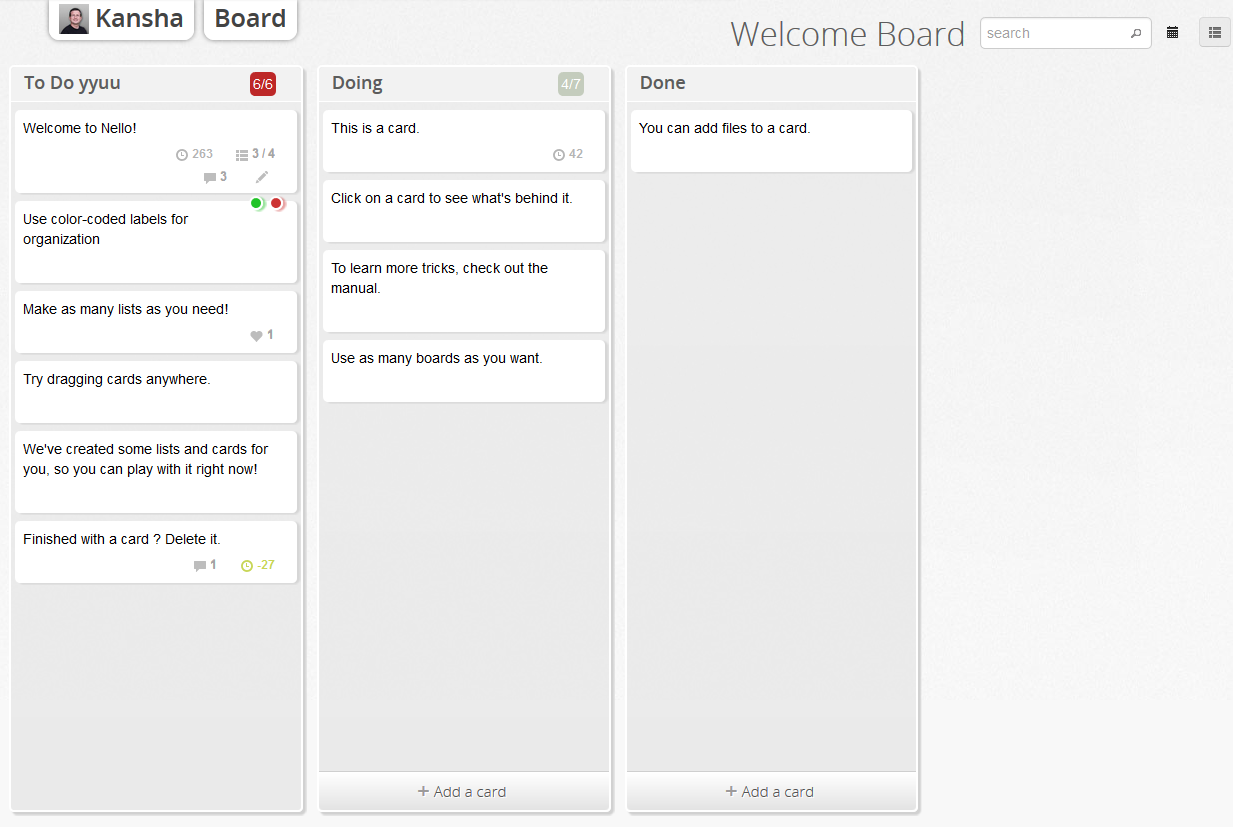
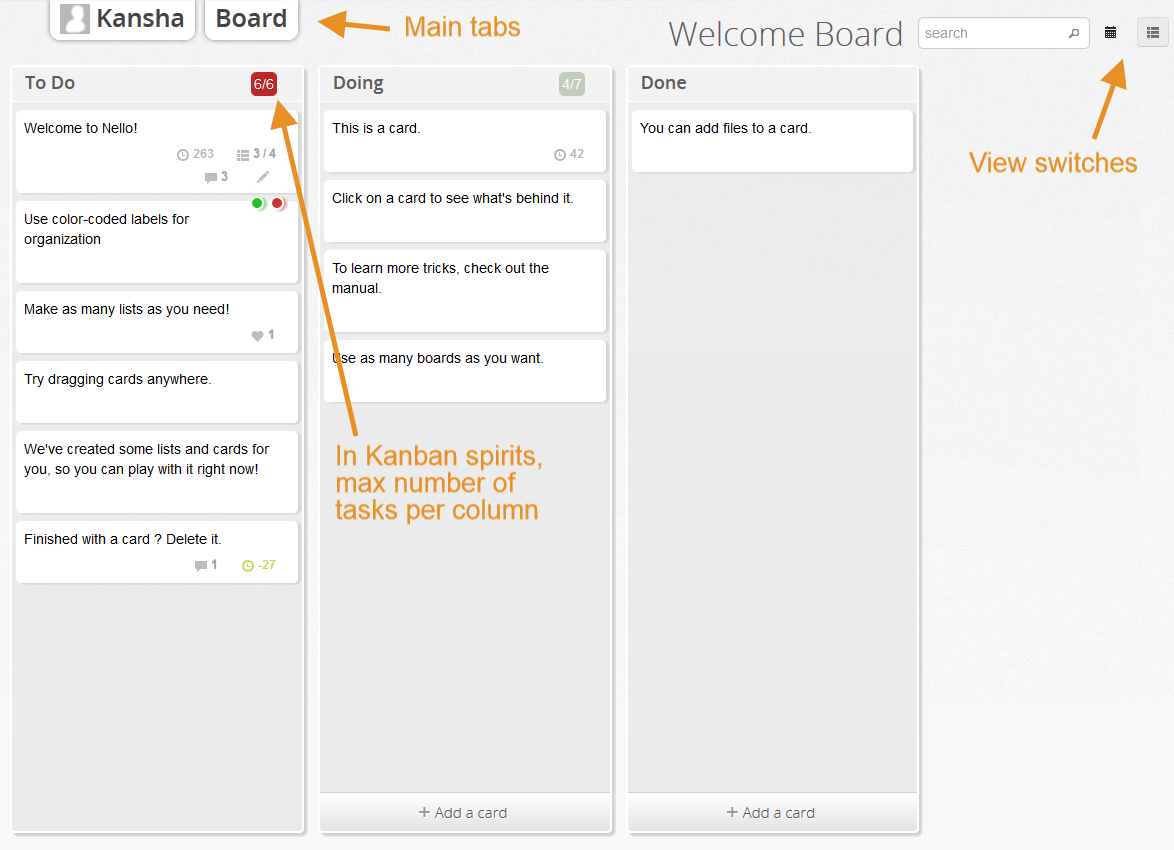
Legend added

diff --git a/doc/first_connection.rst b/doc/first_connection.rst
@@ -1,7 +1,7 @@
 First connection
 ================
 
-Kansha works with Firefox, Chrome, Internet Explorer 9 and above, Safari 7 and above, with the mouse. Kansha is currently not compatible with touch devices.
+Kansha works with Firefox, Chrome, Internet Explorer 9 and above, Safari 7 and above, with the mouse.
 
 Login screen
 ------------
